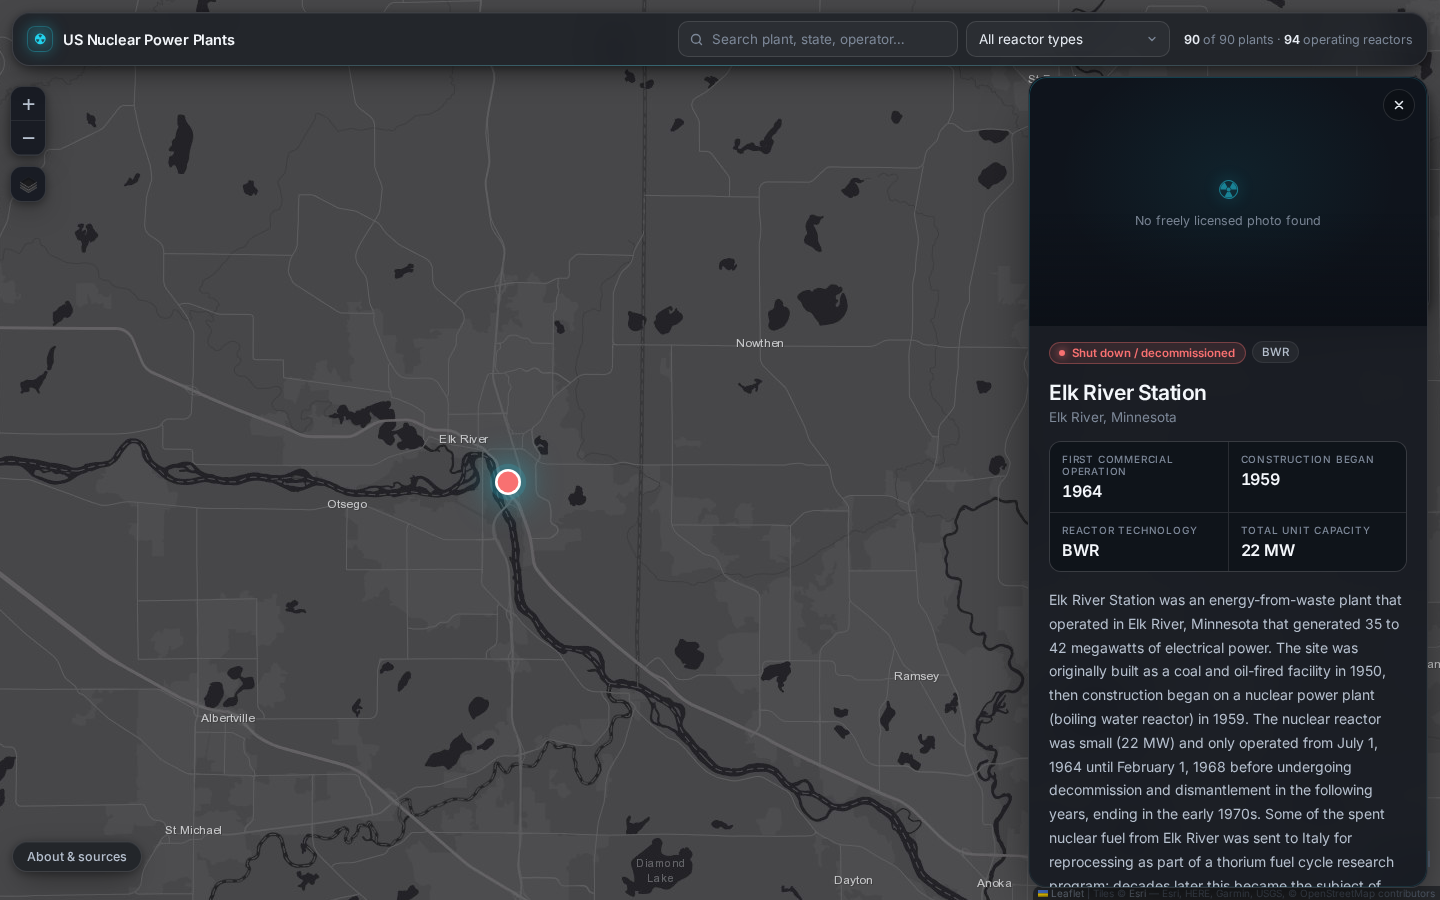
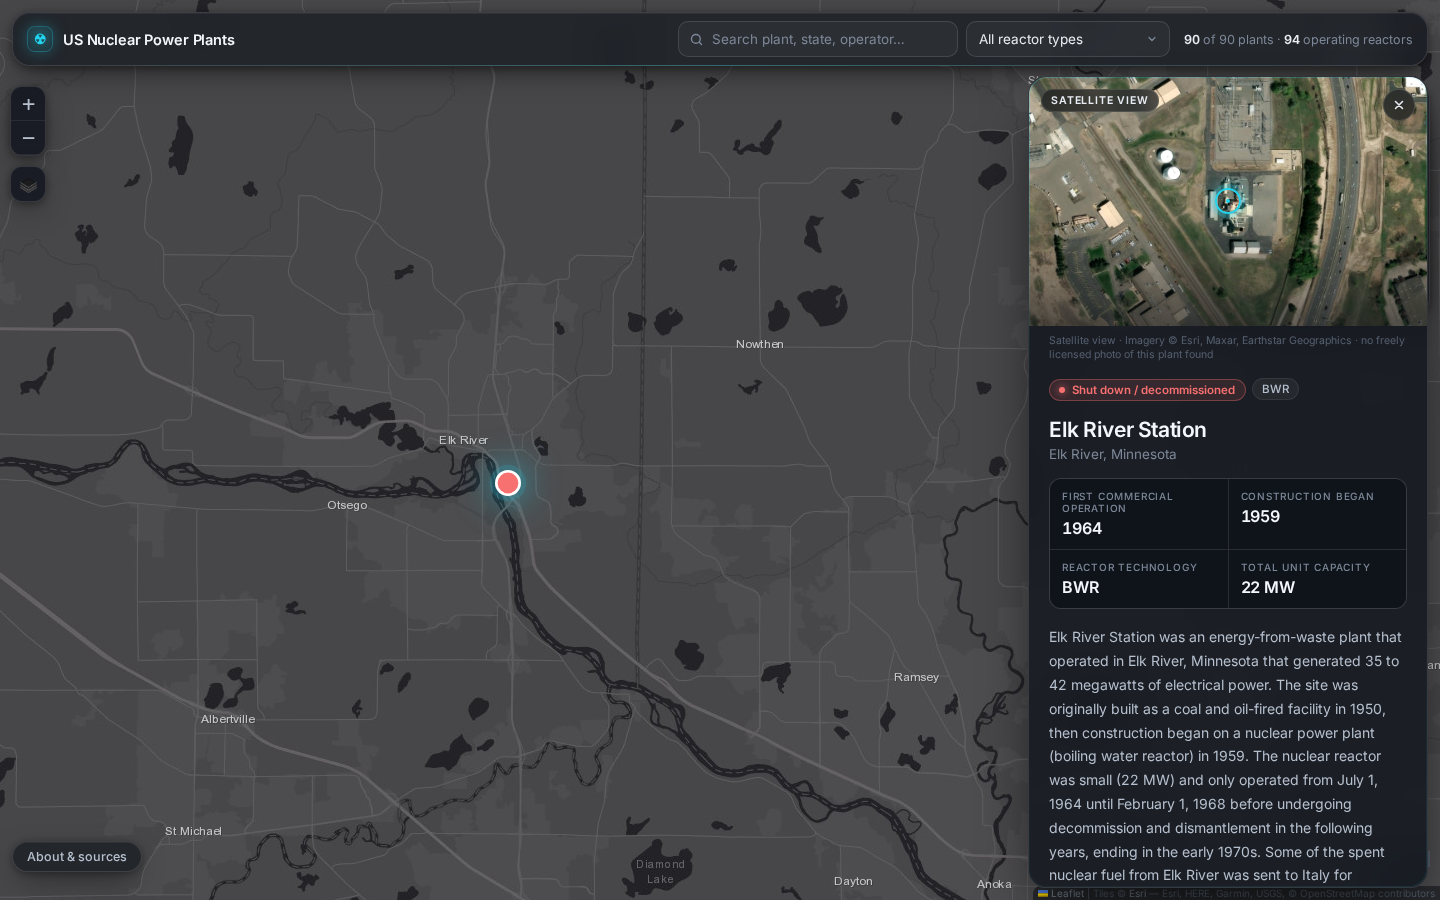
Satellite view for plants without a photo (Elk River)

diff --git a/index.html b/index.html
@@ -161,6 +161,12 @@ h3:after{content:"";flex:1;height:1px;background:var(--line)}
 .links a{display:inline-block;font-size:12.5px;font-weight:500;color:var(--ink2);text-decoration:none;padding:6px 12px;border:1px solid var(--line2);border-radius:999px;transition:background .25s,border-color .25s,color .25s,box-shadow .25s}
 .links a:hover{background:var(--accent-soft);border-color:var(--accent-line);color:var(--accent-ink);box-shadow:0 0 18px -6px rgba(34,211,238,.6)}
 .note{font-size:11.5px;color:var(--muted);line-height:1.5}
+/* satellite fallback */
+.ph.sat img{filter:saturate(.95) contrast(1.04)}
+.satpin{position:absolute;left:50%;top:50%;width:26px;height:26px;margin:-13px 0 0 -13px;border-radius:50%;border:2px solid var(--accent);box-shadow:0 0 0 4px rgba(34,211,238,.18),0 0 18px rgba(34,211,238,.6);z-index:2;opacity:0;transition:opacity .6s ease .3s;pointer-events:none}
+.satpin:after{content:"";position:absolute;left:50%;top:50%;width:4px;height:4px;margin:-2px 0 0 -2px;border-radius:50%;background:var(--accent)}
+.ph.loaded .satpin{opacity:1}
+.satlbl{position:absolute;left:12px;top:12px;z-index:2;font-size:10.5px;font-weight:600;letter-spacing:.08em;text-transform:uppercase;color:var(--ink);padding:4px 9px;border-radius:999px;background:rgba(10,13,19,.6);-webkit-backdrop-filter:blur(10px);backdrop-filter:blur(10px);border:1px solid var(--line2)}
 /* about */
 #about{position:absolute;left:12px;bottom:28px;z-index:900;animation:fade .8s var(--ease) both .7s}
 #about button{font:inherit;font-size:12.5px;font-weight:500;color:var(--ink2);border-radius:999px;padding:7px 14px;cursor:pointer;transition:color .2s,border-color .2s,transform .3s var(--ease)}
@@ -342,10 +348,24 @@ function unitHtml(u){
  const bg=UNIT_COLORS[u.status]||(/Unfinished|Cancel/.test(u.status)?'rgba(167,139,250,.14);color:#c4b5fd':'rgba(248,113,113,.12);color:#fca5a5');
  return '<div class="unit"><div class="uh"><span>'+esc(u.nrc_name||('Unit '+u.unit))+'</span><span class="us" style="background:'+bg+'">'+esc(u.status)+'</span></div><table>'+rows.filter(r=>r[1]).map(r=>'<tr><td>'+esc(r[0])+'</td><td>'+esc(r[1])+'</td></tr>').join('')+'</table></div>';
 }
+// satellite fallback for plants without a freely licensed photo (Esri World Imagery export, 16:10, ~0.6 km wide)
+// optional view centre when the dataset coordinate sits beside the actual generating site (map marker is unchanged)
+const SAT_CENTER={'elk-river':[45.29677,-93.55490]};
+const SAT_GROUND_M=600; // ground width shown across the 960 px image (~0.6 m/px, still sharp)
+function satUrl(p){
+ const c=SAT_CENTER[p.id]||[p.lat,p.lon], lat=c[0], lon=c[1];
+ const R=6378137, x=lon*Math.PI/180*R, y=Math.log(Math.tan(Math.PI/4+lat*Math.PI/360))*R;
+ const hw=SAT_GROUND_M/2/Math.cos(lat*Math.PI/180), hh=hw*600/960;
+ return 'https://server.arcgisonline.com/ArcGIS/rest/services/World_Imagery/MapServer/export?bbox='+[x-hw,y-hh,x+hw,y+hh].map(v=>v.toFixed(1)).join(',')+'&bboxSR=3857&imageSR=3857&size=960,600&format=jpg&f=image';
+}
+function satHtml(p){
+ return '<div class="ph sat"><img src="'+esc(satUrl(p))+'" alt="Satellite view of the '+esc(p.name)+' site" decoding="async" referrerpolicy="no-referrer" onload="this.parentNode.classList.add(\'loaded\')" onerror="this.parentNode.classList.add(\'loaded\');this.parentNode.innerHTML=\'<div class=ph-empty><span class=i>☢</span>No freely licensed photo found</div>\'"><span class="satpin"></span><span class="satlbl">Satellite view</span></div>'+
+  '<div class="credit">Satellite view · Imagery © Esri, Maxar, Earthstar Geographics · no freely licensed photo of this plant found</div>';
+}
 function render(p){
  const s=STATUS[p.status];
  const img=p.image?'<div class="ph"><img src="'+esc(p.image.url)+'" alt="'+esc(p.name)+'" decoding="async" referrerpolicy="no-referrer" onload="this.parentNode.classList.add(\'loaded\')" onerror="this.parentNode.classList.add(\'loaded\');this.parentNode.innerHTML=\'<div class=ph-empty><span class=i>☢</span>Photo unavailable</div>\'"></div><div class="credit">Photo: <a href="'+esc(p.image.commons)+'" target="_blank" rel="noopener">'+esc(p.image.artist||p.image.file)+'</a> · '+esc(p.image.license)+' · via Wikimedia Commons</div>'
-  :'<div class="ph loaded"><div class="ph-empty"><span class="i">☢</span>No freely licensed photo found</div></div>';
+  :satHtml(p);
  const caps=p.units.map(u=>parseFloat(String(u.capacity_mw).replace(/,/g,''))).filter(x=>!isNaN(x));
  const totalCap=caps.reduce((a,b)=>a+b,0);
  const facts=[
